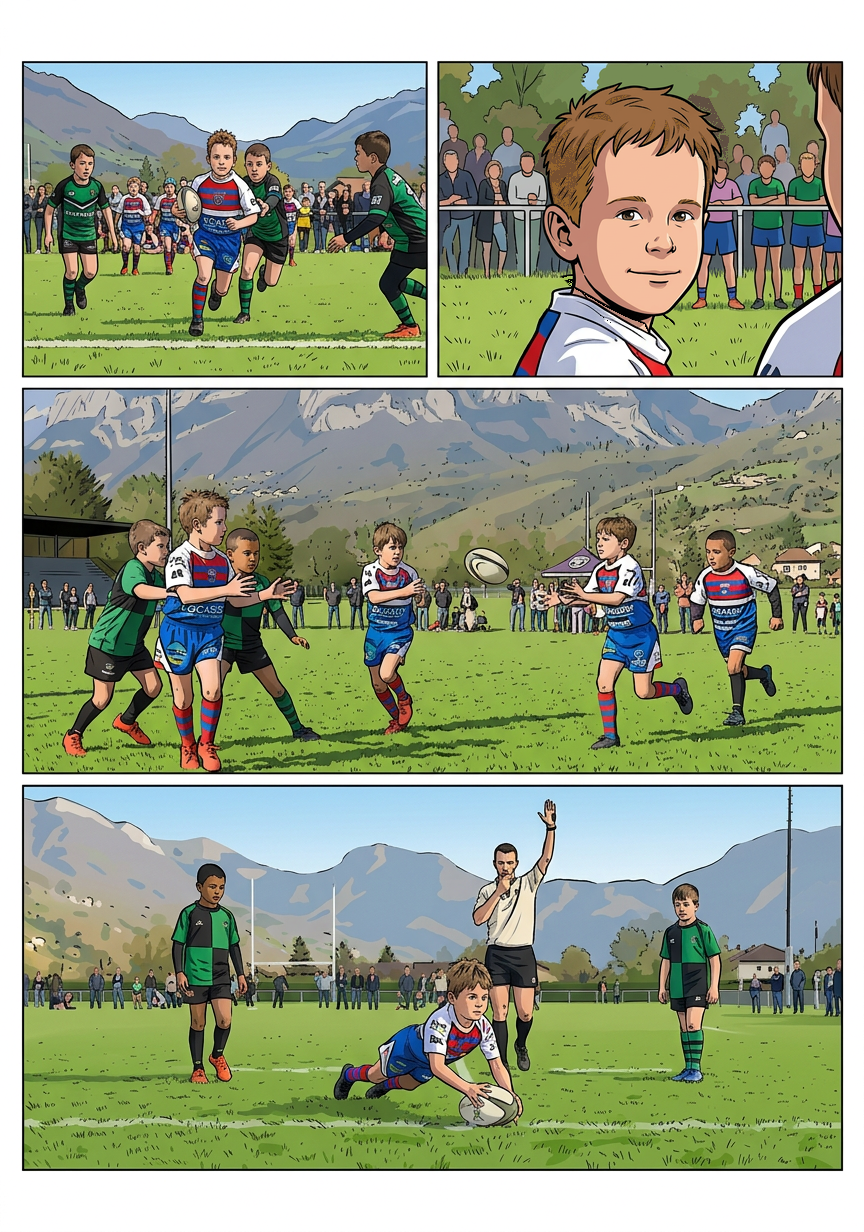
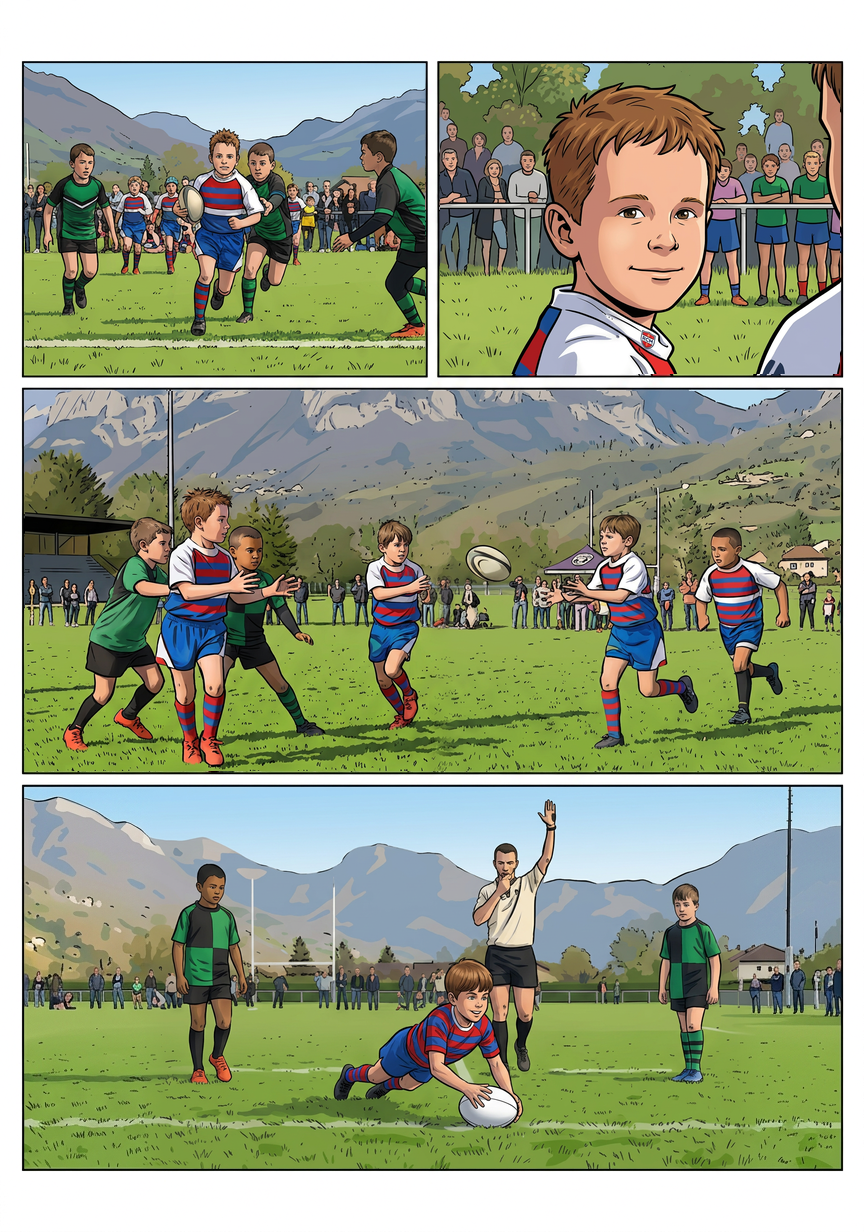
Revue couverture : reprises de premiere passe de la planche 29 (lot AG)

diff --git a/Planches-dessin/SUIVI-STYLE.md b/Planches-dessin/SUIVI-STYLE.md
@@ -2,7 +2,7 @@
 
 **La couverture `00-couverture-marvel.png` est désormais la seule référence de style et d’identité.** La décision utilisateur remplace la priorité V2 décrite dans l’historique ci-dessous. La couverture reste inchangée.
 
-Suivi actuel : [`validation/REVUE-COUVERTURE.md`](validation/REVUE-COUVERTURE.md) et son manifeste JSON : 153 vignettes inventoriées, 143 premières reprises, 1 contrôle sans retouche, 0 correction partielle, 9 autres contrôles individuels à faire, aucune validation définitive. Les anciennes approbations ne valent pas conformité au nouveau référentiel. La prise de 18/4 est reprise au lot U ; les raccords de 19/1 sont nettoyés au lot W, puis les cinq cases de 20 reprises au lot X. Planche 21 reprise au lot Y : souvenir mental de Flavien, gestes de réconciliation, visage clair d’Ayden isolé pour éviter sa confusion avec Nolann mat, et geste de Julien sur l’épaule de Flavien. Planche 22 reprise au lot Z : retour du printemps en manches courtes (suppression des sous-pulls d’hiver de 22-1), vestes marine des coachs (22-2 et 22-4), prise de parole de Léon/Lyssandro/Nolann (22-3) et clin d’œil complice de Milo (22-5). Planche 23 reprise au lot AA : quatre bandes horizontales (passe en ligne, défense alignée autour d’Ayden, plaquage bas et soutien autour de Lyssandro, regard de Flavien/Julien/Kilian en tenues marine). Planche 24 reprise au lot AB : cheveux châtain clair d’Ayden au portail de l’école (24-1), visage enfantin serein de Léon (24-2), et échanges père-fils entre Flavien et Léon à Saint-Sulpice (24-3 à 24-5). Planche 25 reprise au lot AC : panorama des équipes du tournoi final avec Flavien/Julien/Kilian en bleu marine (25-1), victoires contre Chambéry jaune/noir (25-2) et Albertville rouge/blanc avec plaquage bas de Nolann (25-3), pause eau des cinq copains avec les trois coachs (25-4) et entrée de Rumilly rouge/noir en manches courtes (25-5). Planche 26 reprise au lot AD : regroupement des cinq défenseurs du RCM et ailier de Rumilly démarqué debout en coin (26-1), essai en coin de Rumilly avec ballon unique (26-2), sortie tête basse de Nolann/Milo/Ayden sans halos aux oreilles ni textes parasites (26-3), et débrief avec Flavien/Julien/Kilian en bleu marine et prise de parole de Léon (26-4 à 26-6). Planche 27 reprise au lot AE : plaquage bas aux cuisses d’Ayden et défense en ligne (27-1), essai de Lyssandro soutenu par Ayden/Nolann/Léon (27-2), annonce au micro (27-3), face-à-face contre Montmélian (27-4) et cercle des cinq copains en tenues nettoyées (27-5). Planche 28 reprise au lot AF : essai d’égalisation de Nolann bras nus sur passe d’Ayden (28-1), montée défensive en ligne des cinq joueurs (28-2), plaquage bas de Lyssandro et mur défensif en manches courtes (28-3), plaquage en touche de Milo et Nolann (28-4), pénalité jouée par Ayden devant Julien/Kilian/Flavien en bleu marine (28-5) et passe tendue d’Ayden vers Léon avec Milo et Nolann en soutien sans manches longues ni textes parasites (28-6). Prochaine planche : 29. Réserves transversales sur contacts de plaquage, âge/traits sous bonnets et conformité des motifs/écussons/sponsors des tenues. Aucune bulle ni texte de dialogue ajouté.
+Suivi actuel : [`validation/REVUE-COUVERTURE.md`](validation/REVUE-COUVERTURE.md) et son manifeste JSON : 153 vignettes inventoriées, 147 premières reprises, 1 contrôle sans retouche, 0 correction partielle, 5 autres contrôles individuels à faire, aucune validation définitive. Les anciennes approbations ne valent pas conformité au nouveau référentiel. La prise de 18/4 est reprise au lot U ; les raccords de 19/1 sont nettoyés au lot W, puis les cinq cases de 20 reprises au lot X. Planche 21 reprise au lot Y : souvenir mental de Flavien, gestes de réconciliation, visage clair d’Ayden isolé pour éviter sa confusion avec Nolann mat, et geste de Julien sur l’épaule de Flavien. Planche 22 reprise au lot Z : retour du printemps en manches courtes (suppression des sous-pulls d’hiver de 22-1), vestes marine des coachs (22-2 et 22-4), prise de parole de Léon/Lyssandro/Nolann (22-3) et clin d’œil complice de Milo (22-5). Planche 23 reprise au lot AA : quatre bandes horizontales (passe en ligne, défense alignée autour d’Ayden, plaquage bas et soutien autour de Lyssandro, regard de Flavien/Julien/Kilian en tenues marine). Planche 24 reprise au lot AB : cheveux châtain clair d’Ayden au portail de l’école (24-1), visage enfantin serein de Léon (24-2), et échanges père-fils entre Flavien et Léon à Saint-Sulpice (24-3 à 24-5). Planche 25 reprise au lot AC : panorama des équipes du tournoi final avec Flavien/Julien/Kilian en bleu marine (25-1), victoires contre Chambéry jaune/noir (25-2) et Albertville rouge/blanc avec plaquage bas de Nolann (25-3), pause eau des cinq copains avec les trois coachs (25-4) et entrée de Rumilly rouge/noir en manches courtes (25-5). Planche 26 reprise au lot AD : regroupement des cinq défenseurs du RCM et ailier de Rumilly démarqué debout en coin (26-1), essai en coin de Rumilly avec ballon unique (26-2), sortie tête basse de Nolann/Milo/Ayden sans halos aux oreilles ni textes parasites (26-3), et débrief avec Flavien/Julien/Kilian en bleu marine et prise de parole de Léon (26-4 à 26-6). Planche 27 reprise au lot AE : plaquage bas aux cuisses d’Ayden et défense en ligne (27-1), essai de Lyssandro soutenu par Ayden/Nolann/Léon (27-2), annonce au micro (27-3), face-à-face contre Montmélian (27-4) et cercle des cinq copains en tenues nettoyées (27-5). Planche 28 reprise au lot AF : essai d’égalisation de Nolann bras nus sur passe d’Ayden (28-1), montée défensive en ligne des cinq joueurs (28-2), plaquage bas de Lyssandro et mur défensif en manches courtes (28-3), plaquage en touche de Milo et Nolann (28-4), pénalité jouée par Ayden devant Julien/Kilian/Flavien en bleu marine (28-5) et passe tendue d’Ayden vers Léon avec Milo et Nolann en soutien sans manches longues ni textes parasites (28-6). Planche 29 reprise au lot AG : percée de Léon au centre (29-1), gros plan sur le sourire confiant de Léon (29-2), passe collective de Léon relayée par Lyssandro vers Milo avec Nolann en soutien (29-3) et essai de la victoire de Milo sous le coup de sifflet de l’arbitre (29-4). Prochaine planche : 30. Réserves transversales sur contacts de plaquage, âge/traits sous bonnets et conformité des motifs/écussons/sponsors des tenues. Aucune bulle ni texte de dialogue ajouté.
 
 ---
 

diff --git a/Planches-dessin/validation/REVUE-COUVERTURE.md b/Planches-dessin/validation/REVUE-COUVERTURE.md
@@ -537,3 +537,7 @@ Procédure : identification au scénario → comparaison aux personnages de couv
 | `28-4` | 28 | `[25, 624, 425, 864]` | Corrigée 1re passe (relecture globale à faire) | Plaquage en touche de Milo et Nolann : reprise de Milo (frange châtain, bras nus) et Nolann (teint mat, cheveux courts foncés) entraînant l'ailier de Montmélian au-delà de la ligne de touche sous le geste de l'arbitre. |
 | `28-5` | 28 | `[440, 624, 840, 864]` | Corrigée 1re passe (relecture globale à faire) | Pénalité jouée à 5 mètres par Ayden : reprise d'Ayden (cheveux ramenés du blond au châtain clair) tapotant le ballon du pied devant Julien (sifflet jaune en main, veste bleu marine), Kilian (barbe rousse, veste bleu marine) et Flavien (survêtement bleu marine à épaules rouges). |
 | `28-6` | 28 | `[25, 881, 840, 1205]` | Corrigée 1re passe (relecture globale à faire) | Passe tendue d'Ayden vers Léon : reprise complète de la vignette par assemblage gauche/droite avec Ayden (cheveux châtain clair, bras nus) adressant une passe tendue vers Léon lancé à pleine vitesse à gauche, soutenus par Milo et Nolann (teint mat) à droite en maillots et shorts du RCM nettoyés de toutes les inscriptions (LOCASELF, SAVOIE MOTOCULTURE, ME25). |
+| `29-1` | 29 | `[25, 64, 425, 374]` | Corrigée 1re passe (relecture globale à faire) | Percée de Léon au milieu du terrain : reprise complète de Léon (cheveux châtains en épis, maillot du RCM nettoyé de l'inscription GCAS) ballon sous le bras face aux défenseurs de Montmélian en vert et noir. |
+| `29-2` | 29 | `[440, 64, 840, 374]` | Corrigée 1re passe (relecture globale à faire) | Gros plan sur le regard et le sourire de Léon : reprise en style couverture du portrait de Léon (cheveux châtains en épis, yeux bruns, sourire confiant tourné vers ses coéquipiers) et des spectateurs d'arrière-plan. |
+| `29-3` | 29 | `[25, 391, 840, 771]` | Corrigée 1re passe (relecture globale à faire) | Action collective décisive (passe de Léon, relais de Lyssandro vers Milo et soutien de Nolann) : reprise complète par assemblage gauche/droite avec Léon fixant les deux défenseurs de Montmélian à gauche, Lyssandro relayant le ballon au centre vers Milo démarqué sur l'aile et Nolann (teint mat, avant-bras nus en manches courtes) en soutien à droite, tous en maillots nettoyés des inscriptions parasites. |
+| `29-4` | 29 | `[25, 788, 840, 1168]` | Corrigée 1re passe (relecture globale à faire) | Essai de la victoire de Milo : reprise complète des quatre personnages au centre avec Milo (frange châtain arrondie, bras nus) plongeant pour aplatir le ballon sur la ligne d'en-but sous le coup de sifflet et le bras levé de l'arbitre, encadré par les deux défenseurs de Montmélian en manches courtes. |
